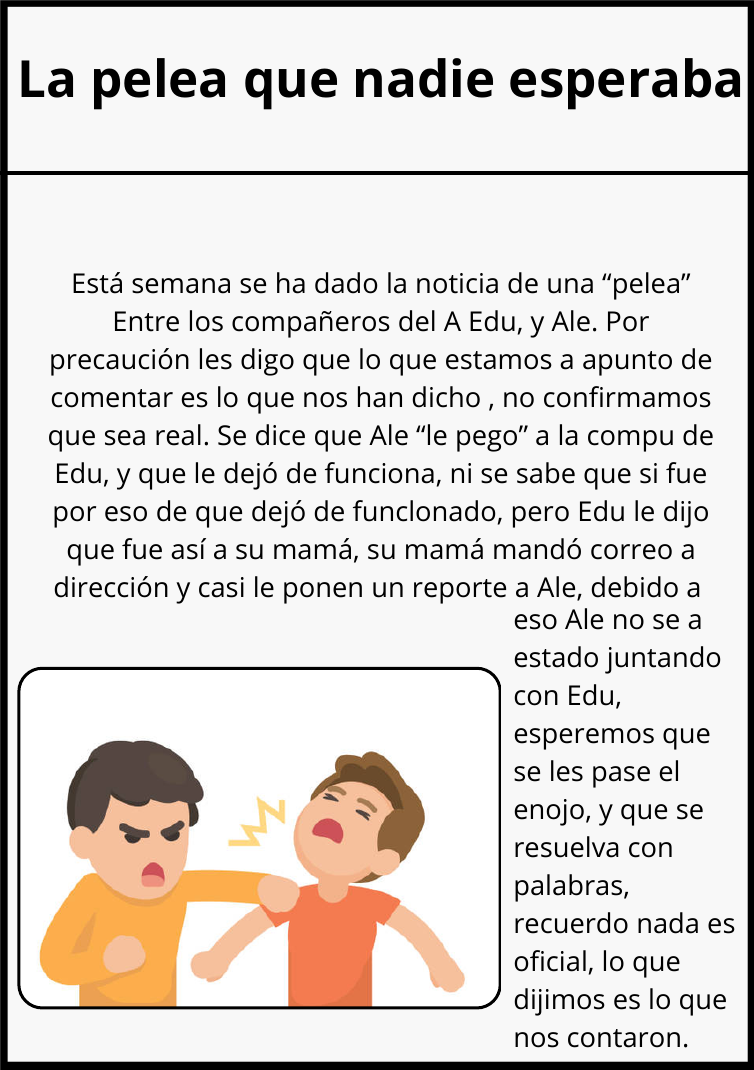
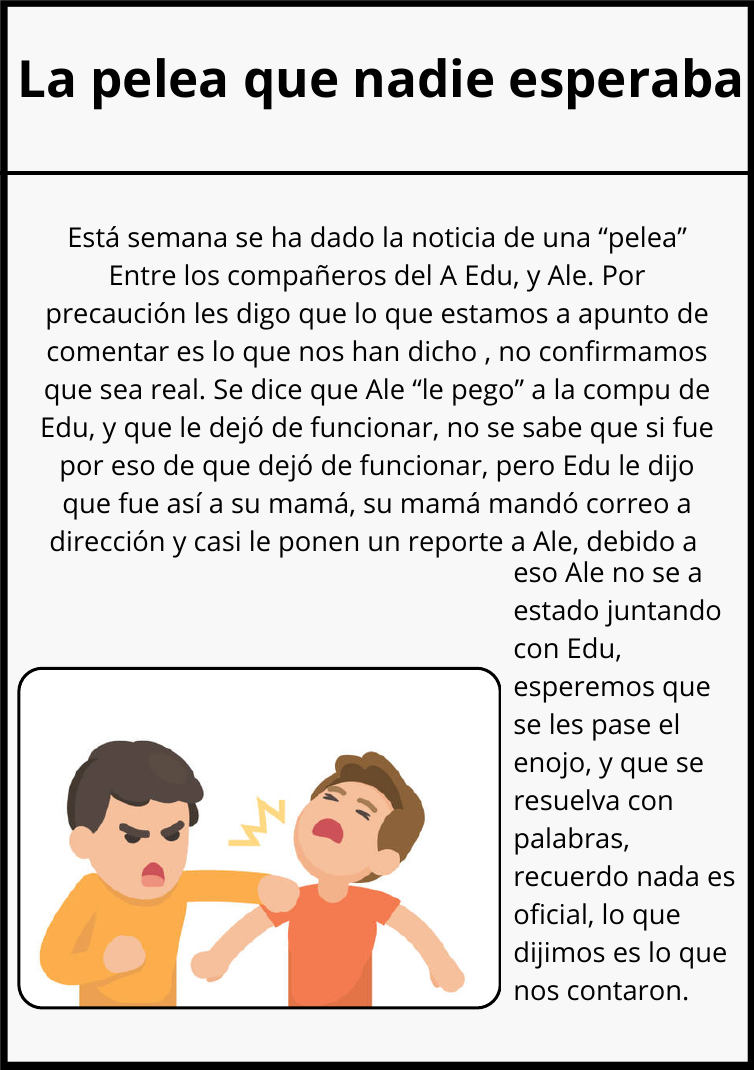
fix(periódico): edición completa de 8 páginas
El PDF anterior tenía 7 páginas (faltaba la de cierre). Se reemplaza
con el archivo de 8 páginas, recortadas al marco negro. Actualiza el
total a 8 y sube el cache-buster a v4.

Changed region(s): [[0.061, 0.2159, 0.9761, 0.9869]]

diff --git a/periodico/index.html b/periodico/index.html
@@ -286,7 +286,7 @@
     <button class="ctrl-btn" id="prevBtn" aria-label="Página anterior" title="Anterior">
       <svg viewBox="0 0 24 24" fill="none" stroke="currentColor" stroke-width="2.4" stroke-linecap="round" stroke-linejoin="round"><path d="M15 18l-6-6 6-6"/></svg>
     </button>
-    <div class="page-indicator"><b id="pageNow">1</b> / <span id="pageTotal">7</span></div>
+    <div class="page-indicator"><b id="pageNow">1</b> / <span id="pageTotal">8</span></div>
     <button class="ctrl-btn" id="nextBtn" aria-label="Página siguiente" title="Siguiente">
       <svg viewBox="0 0 24 24" fill="none" stroke="currentColor" stroke-width="2.4" stroke-linecap="round" stroke-linejoin="round"><path d="M9 6l6 6-6 6"/></svg>
     </button>
@@ -299,8 +299,8 @@
 </main>
 
 <script>
-  const PAGE_V = '3'; // subir cuando se reemplacen las imágenes (evita caché viejo)
-  const PAGES = [1,2,3,4,5,6,7].map(n => `/periodico/pages/${n}.png?v=${PAGE_V}`);
+  const PAGE_V = '4'; // subir cuando se reemplacen las imágenes (evita caché viejo)
+  const PAGES = [1,2,3,4,5,6,7,8].map(n => `/periodico/pages/${n}.png?v=${PAGE_V}`);
   const book = document.getElementById('book');
   const prevBtn = document.getElementById('prevBtn');
   const nextBtn = document.getElementById('nextBtn');
